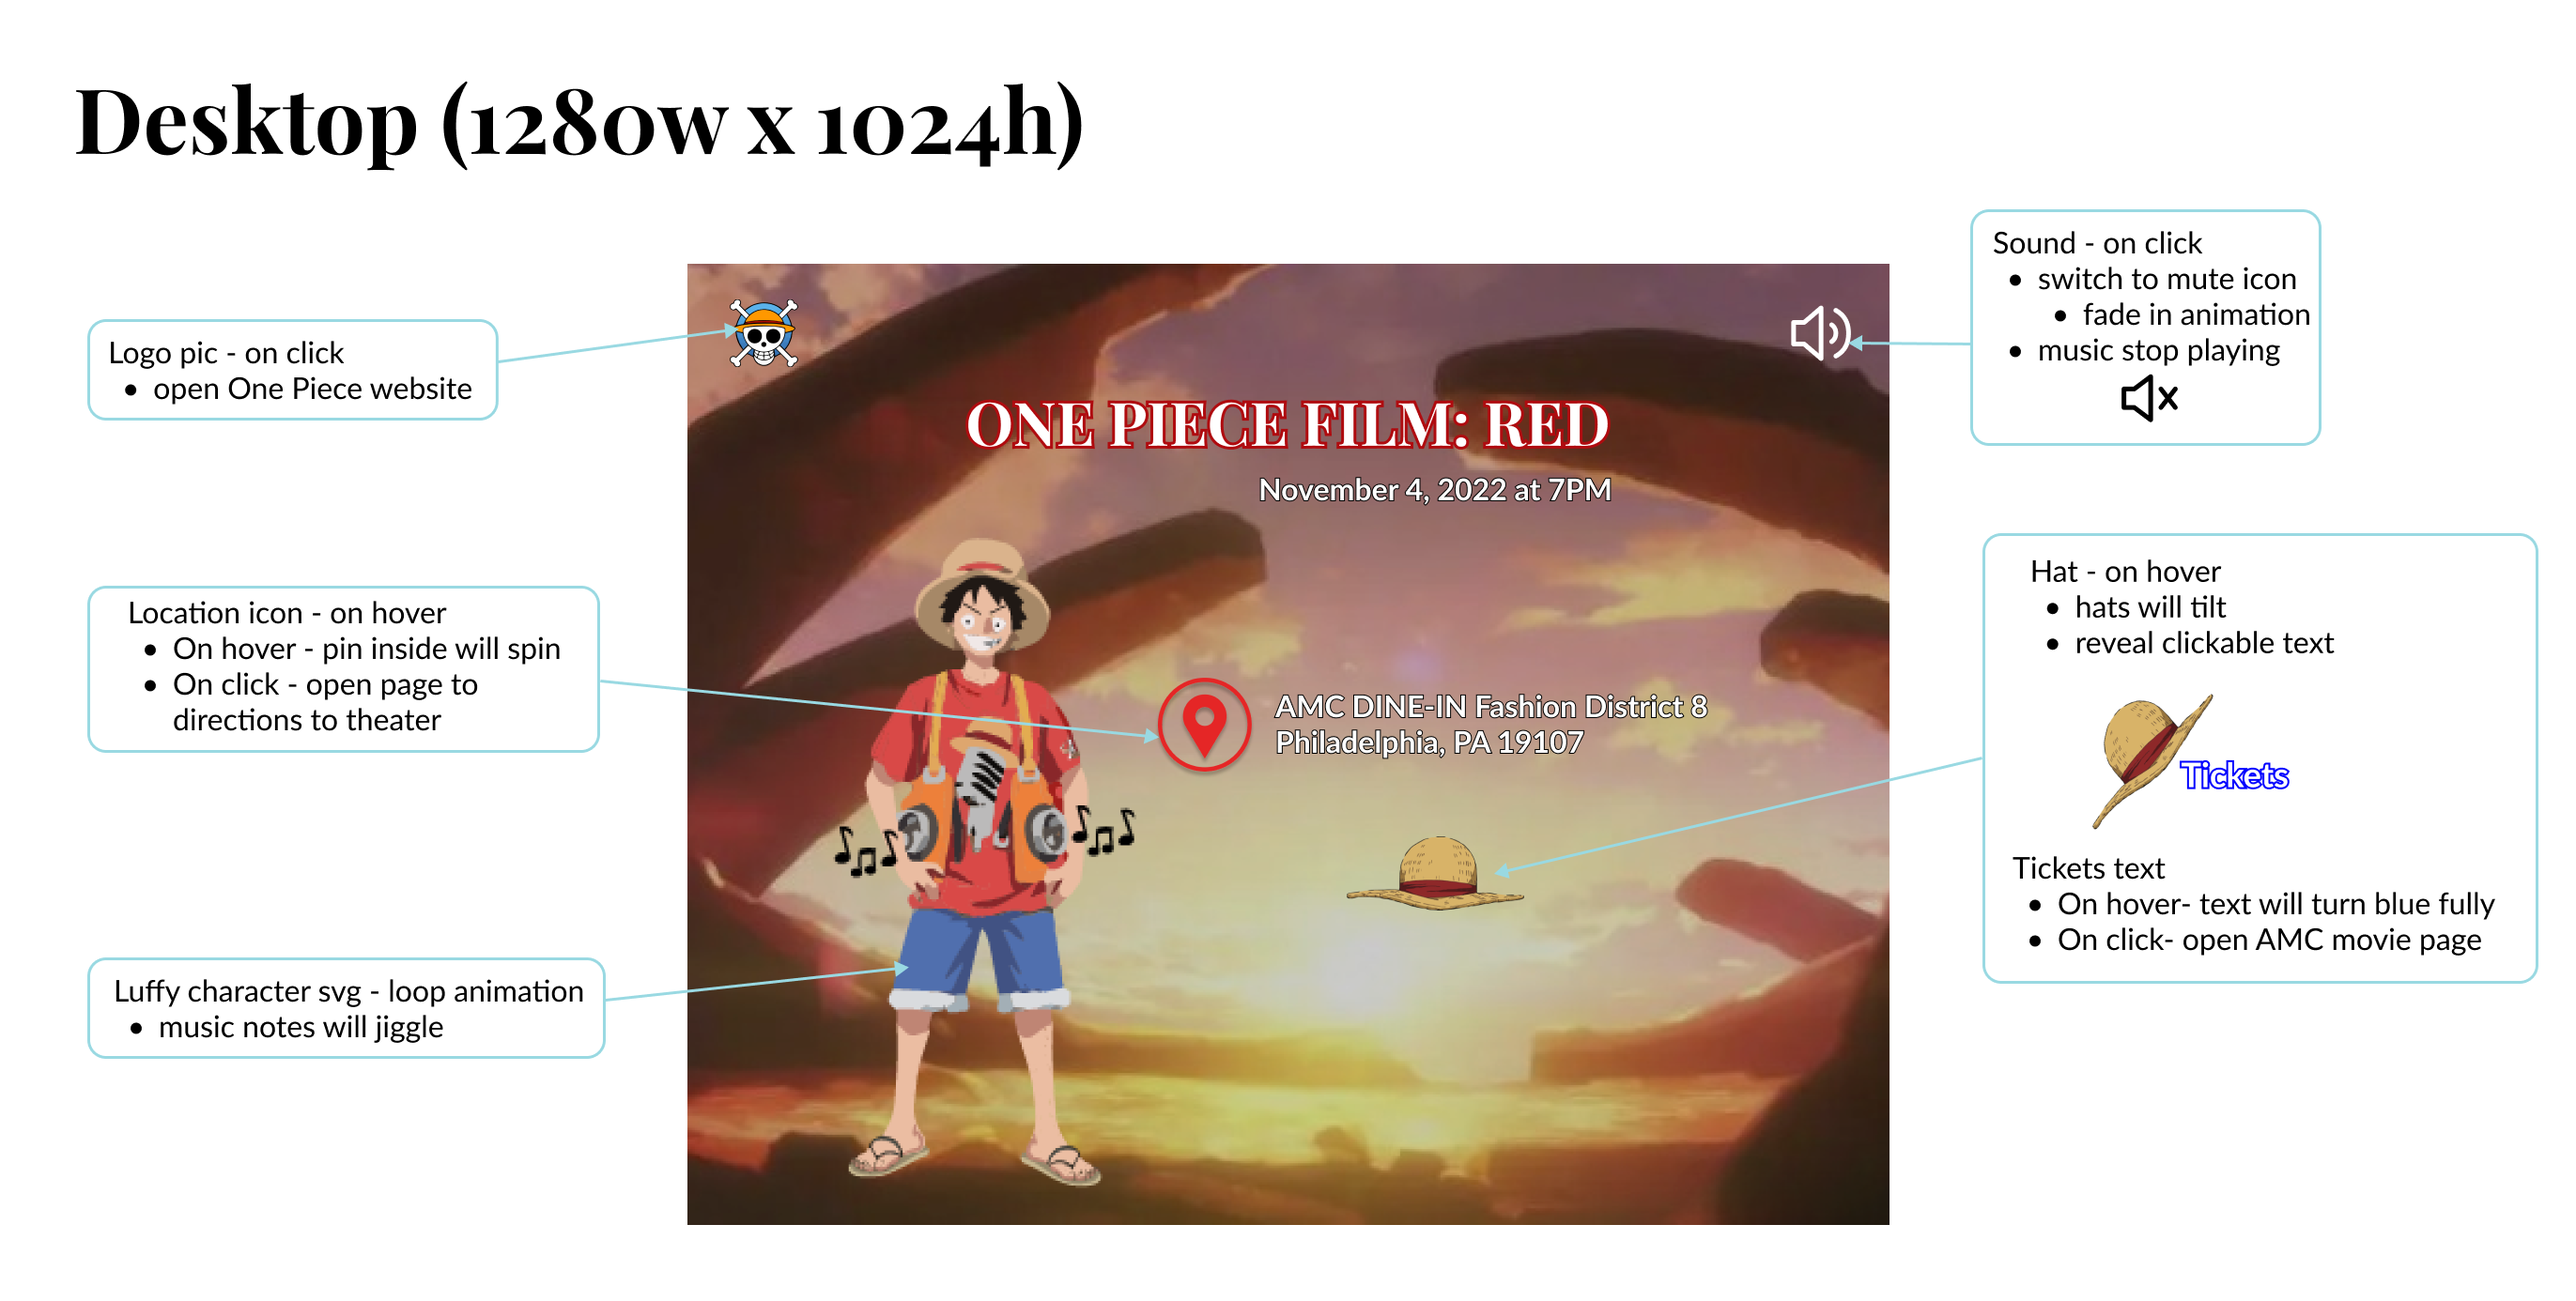
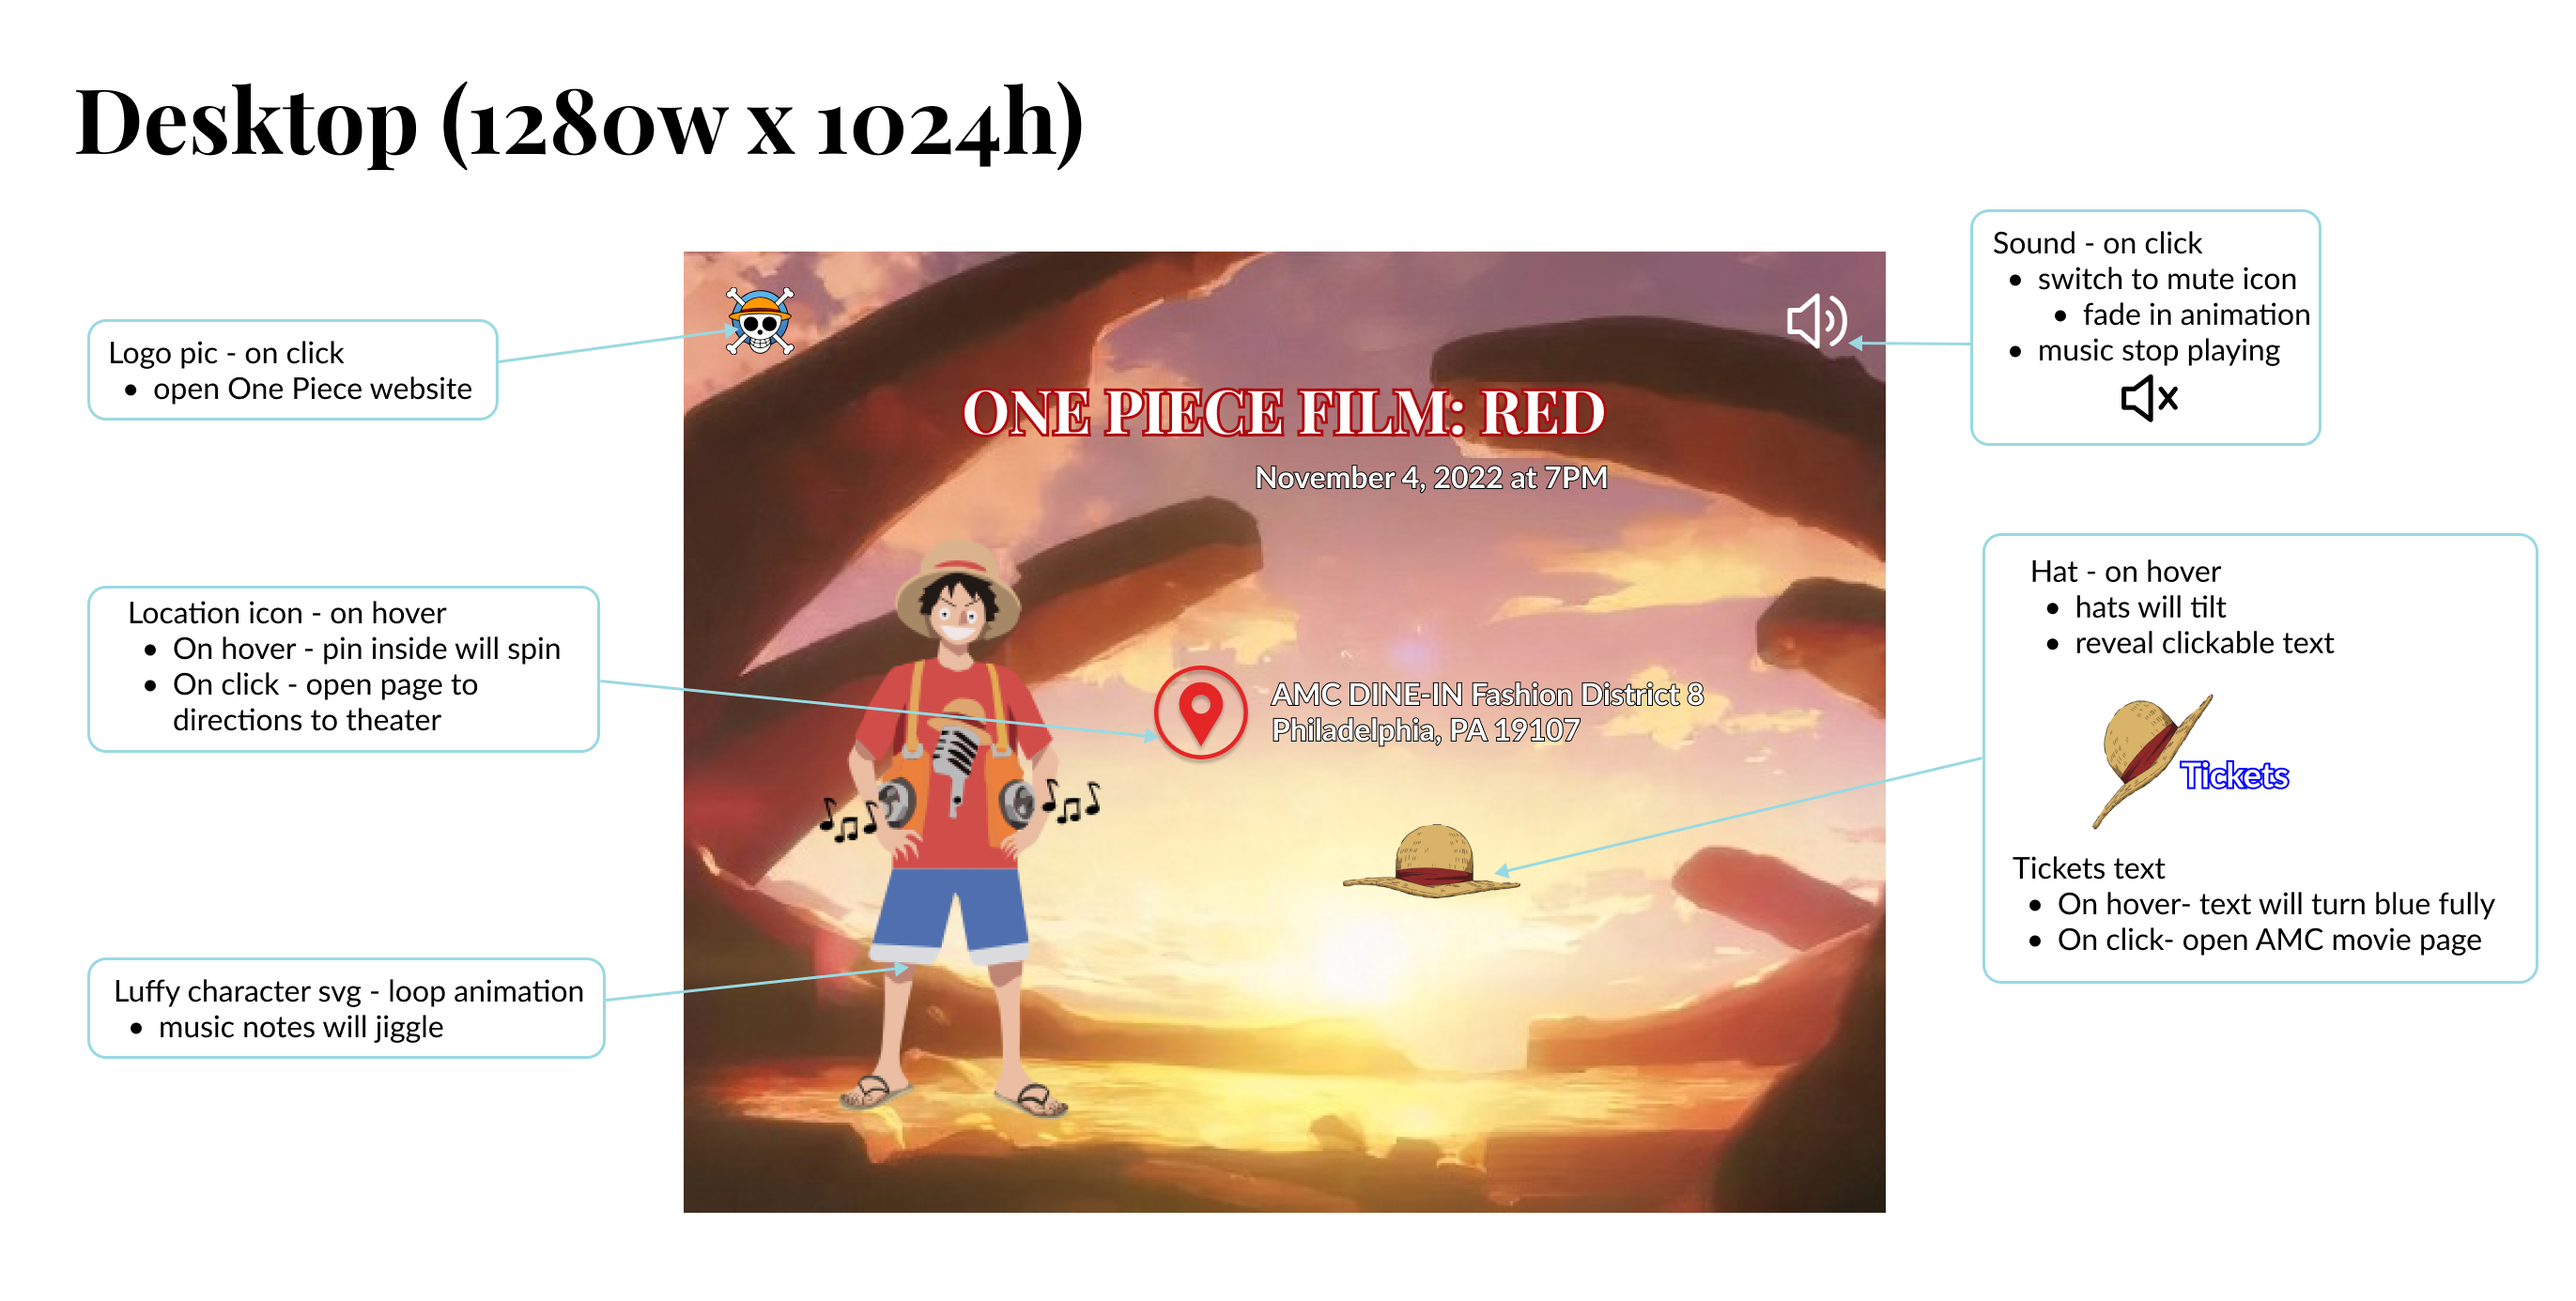
update desktop positioning

Changed region(s): [[0.2479, 0.1861, 0.7437, 0.9618]]

diff --git a/hwk05/styles.css b/hwk05/styles.css
@@ -136,8 +136,6 @@ svg:hover #pin {
     font-feature-settings: 'liga';
 }
 
-
-
 @keyframes pulse {
     0% {
         transform: scale(0.5);
@@ -408,12 +406,6 @@ object {
         left: 33%;
     }
 
-    .date {
-        position: absolute;
-        top: 70%;
-        left: 15%;
-    }
-
     h1 {
         font-family: 'Playfair Display';
         font-size: 50px;
@@ -432,14 +424,14 @@ object {
         position: absolute;
         width: 323px;
         height: 715px;
-        left: 155px;
-        top: 292px;
+        left: 5%;
+        top: 25%;
     }
 
     .wholeAMC {
         position: absolute;
-        left: 40%;
         top: 35%;
+        left: 35%;
     }
 
 
@@ -458,7 +450,7 @@ object {
 
     .ticket {
         position: absolute;
-        left: 62%;
+        left: 57%;
         top: 62%;   
         opacity: 0;
         transition: opacity 0.5s ease-in-out;
@@ -471,7 +463,7 @@ object {
 
     #hat {
         position: absolute;
-        left: 45%;
+        left: 40%;
         top: 52%;
         width: 230px;
         height: 230px;
@@ -485,5 +477,3 @@ object {
         transform: rotate(-30deg);
     }
 }
-
-238
